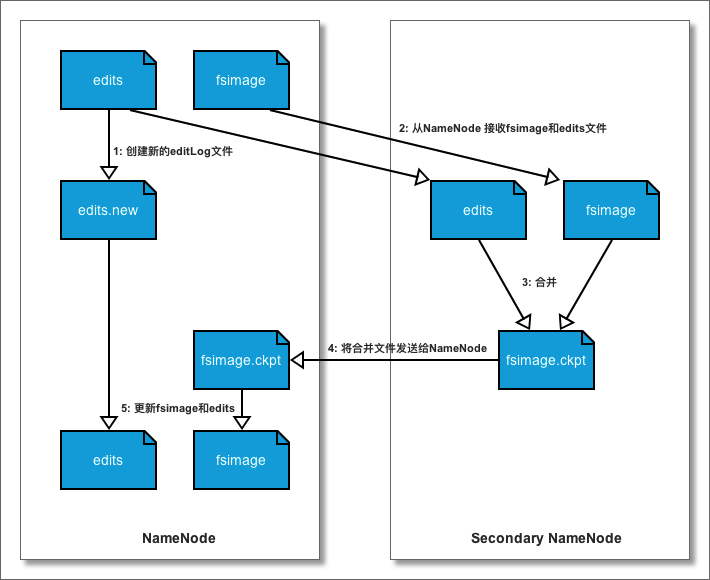
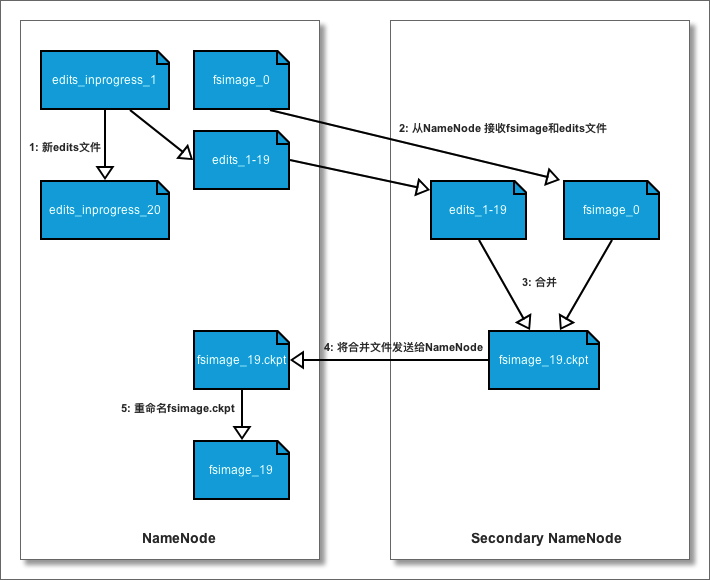
namenode存储结构

diff --git a/notes/db/Hadoop权威指南--HDFS.md b/notes/db/Hadoop权威指南--HDFS.md
@@ -135,16 +135,124 @@ HDFS中文件是分块存储的，DataNode节点负责管理分块ID与分块文
 
 ## 命名空间
 
-HDFS的命名空间（Namespace）由NameNode节点负责管理，它是整个HDFS的核心，记录着文件与block、block与DataNode的对应关系（文件元数据）
+HDFS的命名空间（Namespace）由NameNode节点负责管理，它是整个HDFS的核心，记录着文件与block、block与DataNode的对应关系
 
 NameNode在启动时，将整颗文件系统树（fsimage和edits）加载到内存中，因此该节点对内存容量要求很高
 
-考虑到命名空间的频繁更新（增、删、改）和持久化保存，将命名空间存储在NameNode的本地文件系统中，由两类文件组成，分别为：fsimage（一个）和editLog（多个）
+考虑到命名空间的频繁更新（增、删、改）和持久化保存，将命名空间存储在NameNode的本地文件系统中，由两类文件组成，分别为：fsimage（多个）和editLog（多个）
 
 - fsimage用于维护文件系统树，以及文件树中所有的文件和文件夹的元数据
-- editLog日志记录了对文件的增、删、改等操作
+- edits日志记录了对文件的增、删、改等操作
 
-文件元数据的格式：
+在 HDFS 启动时，会进行一次检查点操作，将最新的 fsimage 载入内存，并将之后的 edits 文件中的事务逐一执行，并生成新的 fsimage.ckpt 文件，最后重命名为 fsimage 文件
+
+### NameNode中的目录结构
+
+在NameNode中存储命名空间的序列化文件，由一组文件（含fsimage和edits）组成，具体如下所示：
+
+```shell
+${dfs.namenode.name.dir}
+|---- current
+|    |---- VERSION
+|    |---- seen_txid
+|    |---- fsimage_0000000000000000000
+|    |---- fsimage_0000000000000000000.md5
+|    |---- fsimage_0000000000000000015
+|    |---- fsimage_0000000000000000015.md5
+|    |---- edits_0000000000000000001-0000000000000000002
+|    |---- edits_0000000000000000003-0000000000000000015
+|    |---- edits_inprogress_0000000000000000016
+|---- in_use.lock
+```
+
+详细介绍目录中的文件功能
+
+1. {dfs.namenode.name.dir} 目录
+
+   在配置文件中设置的namenode中保存命名空间的目录
+
+2. current目录
+
+   保存当前使用的命名空间存储目录
+
+3. VERSION文件
+
+   保存正在运行的HDFS的版本信息 
+
+   ```shell
+     #Fri Dec 06 22:05:27 CST 2019
+     namespaceID=2082678695
+     clusterID=CID-0dcd19b9-45f8-4db2-8083-804f35c1c7fe
+     cTime=1575302191346
+     storageType=NAME_NODE
+     blockpoolID=BP-1471388629-192.168.8.100-1575302191346
+     layoutVersion=-63
+   ```
+
+   - namespaceID
+
+     命名空间的唯一标识符，在namenode首次初始化`hdfs namenode --format`时创建。每个namenode唯一对应一个标识符
+
+   - clusterID
+
+     集群的唯一标识符，对于联邦HDFS非常重要
+
+   - blockpoolID
+
+     数据池块的唯一标识符，包含了由一个namenode管理的命名空间中的所有文件
+
+   - cTime
+
+     标记namenode存储系统的创建时间
+
+   - storageType
+
+     说明存储目录中包含的是namenode的数据结构
+
+   - layoutVersion
+
+     布局版本，是一个负数。布局变更后版本号会递减
+
+4. fsimage_* 文件
+
+   文件系统镜像文件，由多个文件组成。每个文件名中的数字部分表示文件中的最后一个事务编码（如15）
+
+   secondarynamenode会定期生成检查点文件来帮助namenode更新 fsimage
+
+   - 保存的是文件系统中的目录和文件的`inode`序列化信息
+   - 文件`inode`：复本级别、修改时间、访问时间、访问许可、块大小、组成一个文件的块等
+   - 目录`inode`：修改时间、访问许可、配额元数据等
+
+   注意：在 fsimage 文件中，不保存数据块和datanode的映射关系。namenode将这部分信息放在内存中，由namenode向datanode索取
+
+   **fsimage 文件只保存最后两个**
+
+5. edits_* 文件
+
+   客户端执行写操作时（创建、移动、删除等），这些事务首先被记录到编辑日志中。
+
+   每个编辑日志文件称为一个段，文件名由 `edits` 及后缀组成，后缀指示出包含事务ID信息。例如：`edits_0000000000000000001-0000000000000000002`，表示该编辑日志包含事务ID1--ID2
+
+   任意时刻只有一个编辑日志文件处于可写入状态，命名为：`edits_inprogress_0000000000000000016`
+
+6. seen_txid 文件
+
+   保存当前处于可写入状态的编辑日志的起始事务ID
+
+7. in_use.lock 文件
+
+   保存当前进行写操作的 `namenode` 进程id，使用`jps`指令可以查看
+
+## 数据块存储
+
+数据块存储在 DataNode 中，具体的存储结构和文件说明如下：
+
+```shell
+$ {dfs.datanode.data.dir}/
+|---- current/
+|    |---- BP-1471388629-192.168.8.100-1575302191346/
+|    |    |---- current
+```
 
 
 
@@ -272,11 +380,27 @@ HDFS使用校验和（CRC-32）的方式，对每个chunk进行数据校验
 
 ![secondary](./assets/secondary.png)
 
-1. NameNode创建新的editLog日志文件，新的文件变更将记录在这个文件中
-2. Secondary NameNode从NameNode获得fsimage和edits文件
-3. Secondary NameNode在本地完成合并操作，将edits中的记录合并到fsimage中
-4. Secondary NameNode将合并后的fsimage文件发送给NameNode
-5. NameNode将edits.new和新的fsimage更新到本地文件系统
+### 处理步骤
+
+1. Secondary NameNode 请求 namenode 停止使用正在进行中的 edits 文件。新的编辑操作记录在新的文件中，namenode同时更新所有存储目录中的 seen_txid 文件
+2. Secondary NameNode从NameNode获得最近的 fsimage 和 edits 文件（HTTP GET）
+3. Secondary NameNode 将 fsimage 文件载入内存，逐一执行 edits 文件中的事务，创建合并后的 fsimage.ckpt 文件
+4. Secondary NameNode 将创建的 fsimage.ckpt 文件发送给NameNode（HTTP PUT）
+5. NameNode将 fsimage.ckpt 文件重命名
+
+### 配置参数
+
+创建检查点的触发条件受两个配置参数控制
+
+1. 间隔一定时间创建检查点
+
+   参数：dfs.namenode.checkpoint.period 即间隔时间。单位：秒，默认1小时
+
+2. 编辑日志事务数量达到上限
+
+   参数：dfs.namenode.checkpoint.txns 即事务数量。默认100万
+
+   参数：dfs.namenode.checkpoint.check.period 即检查日志事务数量的间隔时间。单位：秒，默认1分钟
 
 # 联邦架构
 
@@ -308,3 +432,7 @@ HDFS使用校验和（CRC-32）的方式，对每个chunk进行数据校验
 
 
 
+
+  ```
+
+  ```

diff --git a/notes/db/hadoop集群安装.md b/notes/db/hadoop集群安装.md
@@ -306,6 +306,30 @@ layout: post
 
 # 部署hadoop
 
+## 注意事项
+
+1. 鉴于hadoop用户的home目录可能挂载在NFS上，Hadoop系统最好不要安装在该目录下
+
+   ```bash
+   % cd /usr/local
+   % sudo tar xzf hadoop-x.y.z.tar.gz
+   ```
+
+2. 需要将Hadoop文件的拥有者改为hadoop用户和组
+
+   ```bash
+   % sudo chown -R hadoop:hadoop hadoop-x.y.z
+   ```
+
+3. 添加Hadoop执行程序所在目录
+
+   ```bash
+   % export HADOOP_HOME=/usr/local/hadoop-x.y.z
+   % export PATH=$PATH:$HADOOP_HOME/bin:$HADOOP_HOME/sbin
+   ```
+
+   
+
 1. 解压hadoop
 
    ~~~
